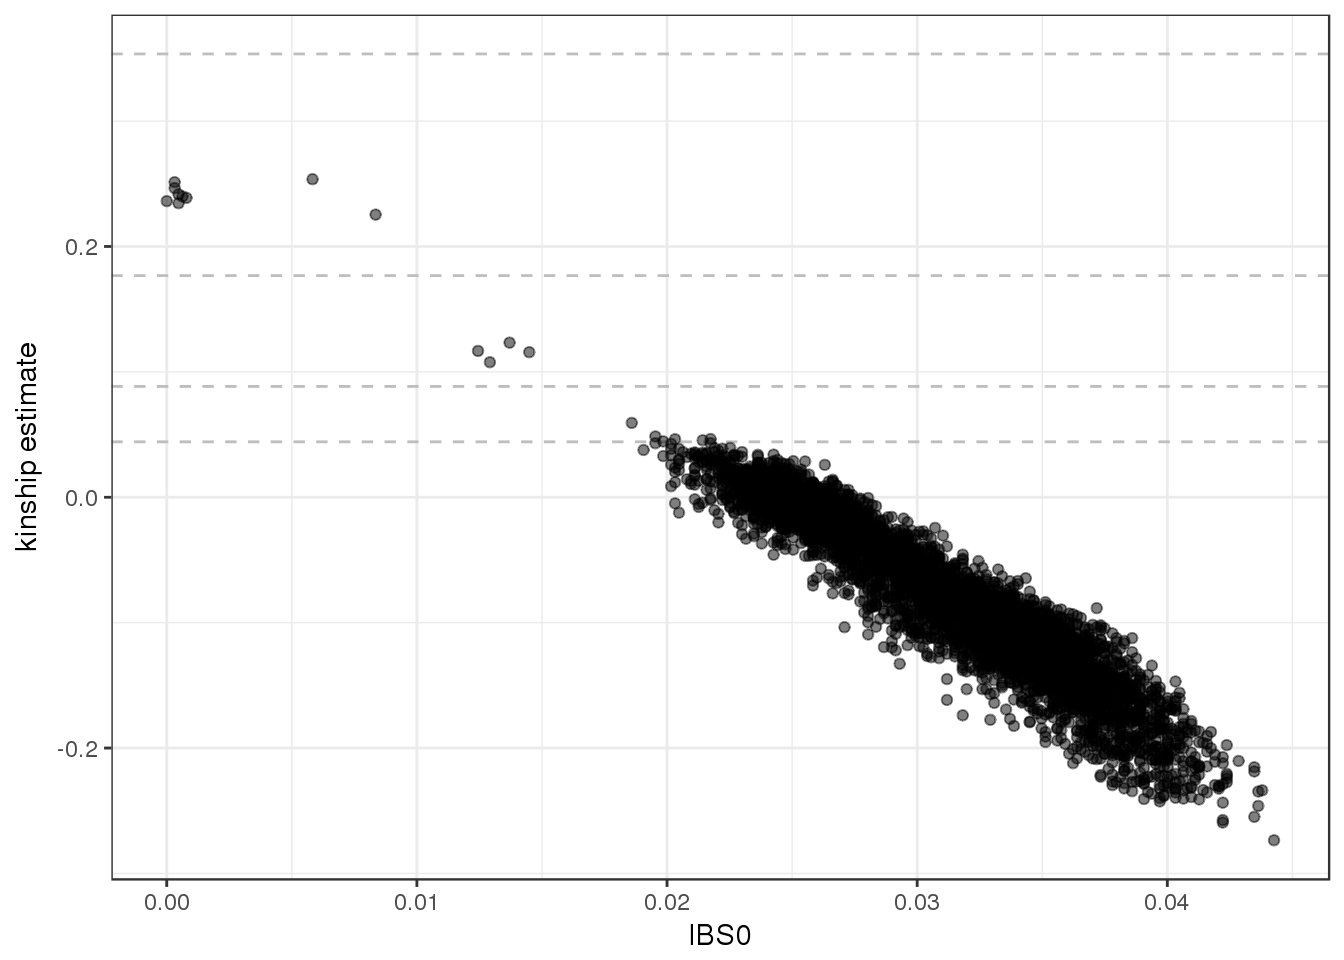
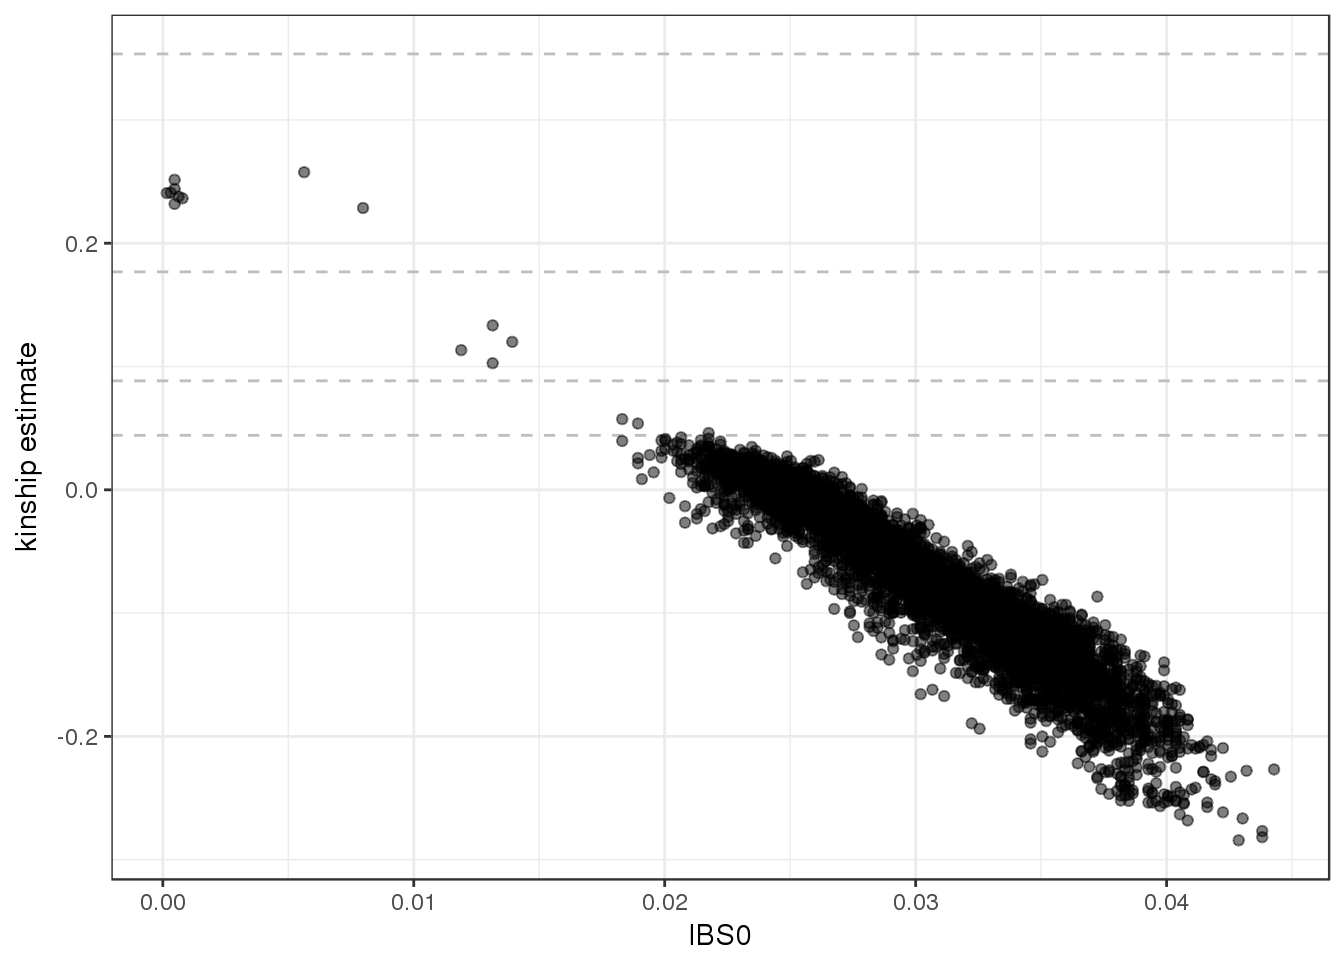
set a seed for LD pruning to avoid changes to figures

diff --git a/docs/pc-relate.html b/docs/pc-relate.html
@@ -212,34 +212,34 @@ snpset &lt;-<span class="st"> </span><span class="kw">snpgdsLDpruning</span>(gds
 ##     sliding window: 10,000,000 basepairs, Inf SNPs
 ##     |LD| threshold: 0.316228
 ##     method: correlation
-## Chromosome 1: 31.16%, 349/1,120
-## Chromosome 2: 30.89%, 346/1,120
-## Chromosome 3: 31.07%, 348/1,120
+## Chromosome 1: 31.25%, 350/1,120
+## Chromosome 2: 31.61%, 354/1,120
+## Chromosome 3: 30.98%, 347/1,120
 ## Chromosome 4: 30.98%, 347/1,120
-## Chromosome 5: 29.46%, 330/1,120
-## Chromosome 6: 31.43%, 352/1,120
-## Chromosome 7: 28.12%, 315/1,120
-## Chromosome 8: 25.98%, 291/1,120
-## Chromosome 9: 27.86%, 312/1,120
-## Chromosome 10: 28.75%, 322/1,120
-## Chromosome 11: 26.79%, 300/1,120
-## Chromosome 12: 28.04%, 314/1,120
+## Chromosome 5: 29.73%, 333/1,120
+## Chromosome 6: 31.16%, 349/1,120
+## Chromosome 7: 28.39%, 318/1,120
+## Chromosome 8: 26.07%, 292/1,120
+## Chromosome 9: 28.39%, 318/1,120
+## Chromosome 10: 28.30%, 317/1,120
+## Chromosome 11: 26.88%, 301/1,120
+## Chromosome 12: 28.39%, 318/1,120
 ## Chromosome 13: 25.27%, 283/1,120
-## Chromosome 14: 24.82%, 278/1,120
-## Chromosome 15: 22.50%, 252/1,120
-## Chromosome 16: 22.50%, 252/1,120
-## Chromosome 17: 21.61%, 242/1,120
-## Chromosome 18: 23.84%, 267/1,120
-## Chromosome 19: 21.61%, 242/1,120
-## Chromosome 20: 19.91%, 223/1,120
+## Chromosome 14: 24.29%, 272/1,120
+## Chromosome 15: 22.59%, 253/1,120
+## Chromosome 16: 22.41%, 251/1,120
+## Chromosome 17: 22.32%, 250/1,120
+## Chromosome 18: 23.66%, 265/1,120
+## Chromosome 19: 21.88%, 245/1,120
+## Chromosome 20: 20.80%, 233/1,120
 ## Chromosome 21: 17.95%, 201/1,120
-## Chromosome 22: 17.59%, 197/1,120
-## 6,363 markers are selected in total.</code></pre>
+## Chromosome 22: 17.32%, 194/1,120
+## 6,391 markers are selected in total.</code></pre>
 <div class="sourceCode"><pre class="sourceCode r"><code class="sourceCode r"><span class="kw">sapply</span>(snpset, length)</code></pre></div>
 <pre><code>##  chr1  chr2  chr3  chr4  chr5  chr6  chr7  chr8  chr9 chr10 chr11 chr12 
-##   349   346   348   347   330   352   315   291   312   322   300   314 
+##   350   354   347   347   333   349   318   292   318   317   301   318 
 ## chr13 chr14 chr15 chr16 chr17 chr18 chr19 chr20 chr21 chr22 
-##   283   278   252   252   242   267   242   223   201   197</code></pre>
+##   283   272   253   251   250   265   245   233   201   194</code></pre>
 <div class="sourceCode"><pre class="sourceCode r"><code class="sourceCode r">pruned &lt;-<span class="st"> </span><span class="kw">unlist</span>(snpset, <span class="dt">use.names=</span><span class="ot">FALSE</span>)
 
 <span class="co"># KING</span>
@@ -249,16 +249,16 @@ king &lt;-<span class="st"> </span><span class="kw">snpgdsIBDKING</span>(gds, <s
 ## 
 [..................................................]  0%, ETC: ---    
 [==================================================] 100%, completed      
-## Working space: 100 samples, 6,363 SNVs
+## Working space: 100 samples, 6,391 SNVs
 ##     using 1 (CPU) core
 ## No family is specified, and all individuals are treated as singletons.
 ## Relationship inference in the presence of population stratification.
 ## CPU capabilities: Double-Precision SSE2
-## Thu Aug  3 12:00:41 2017    (internal increment: 65536)
+## Thu Aug  3 13:53:35 2017    (internal increment: 65536)
 ## 
 [..................................................]  0%, ETC: ---    
 [==================================================] 100%, completed in 0s
-## Thu Aug  3 12:00:41 2017    Done.</code></pre>
+## Thu Aug  3 13:53:35 2017    Done.</code></pre>
 <div class="sourceCode"><pre class="sourceCode r"><code class="sourceCode r"><span class="kw">names</span>(king)</code></pre></div>
 <pre><code>## [1] &quot;sample.id&quot; &quot;snp.id&quot;    &quot;afreq&quot;     &quot;IBS0&quot;      &quot;kinship&quot;</code></pre>
 <div class="sourceCode"><pre class="sourceCode r"><code class="sourceCode r"><span class="kw">dim</span>(king<span class="op">$</span>kinship)</code></pre></div>
@@ -269,12 +269,12 @@ king &lt;-<span class="st"> </span><span class="kw">snpgdsIBDKING</span>(gds, <s
 <div class="sourceCode"><pre class="sourceCode r"><code class="sourceCode r">kinship &lt;-<span class="st"> </span><span class="kw">snpgdsIBDSelection</span>(king)
 <span class="kw">head</span>(kinship)</code></pre></div>
 <pre><code>##       ID1     ID2       IBS0     kinship
-## 1 HG00110 HG00116 0.02593116 -0.01874244
-## 2 HG00110 HG00120 0.02703127 -0.02932285
-## 3 HG00110 HG00128 0.02561685 -0.01725182
-## 4 HG00110 HG00136 0.02954581 -0.04383313
-## 5 HG00110 HG00137 0.02813138 -0.04292624
-## 6 HG00110 HG00141 0.02844570 -0.04201935</code></pre>
+## 1 HG00110 HG00116 0.02534815 -0.01566265
+## 2 HG00110 HG00120 0.02722579 -0.02831325
+## 3 HG00110 HG00128 0.02472227 -0.01707317
+## 4 HG00110 HG00136 0.03004225 -0.04909639
+## 5 HG00110 HG00137 0.02675638 -0.03674699
+## 6 HG00110 HG00141 0.02925990 -0.04608434</code></pre>
 <div class="sourceCode"><pre class="sourceCode r"><code class="sourceCode r"><span class="kw">library</span>(ggplot2)
 <span class="kw">ggplot</span>(kinship, <span class="kw">aes</span>(IBS0, kinship)) <span class="op">+</span>
 <span class="st">    </span><span class="kw">geom_hline</span>(<span class="dt">yintercept=</span><span class="dv">2</span><span class="op">^</span>(<span class="op">-</span><span class="kw">seq</span>(<span class="dv">3</span>,<span class="dv">9</span>,<span class="dv">2</span>)<span class="op">/</span><span class="dv">2</span>), <span class="dt">linetype=</span><span class="st">&quot;dashed&quot;</span>, <span class="dt">color=</span><span class="st">&quot;grey&quot;</span>) <span class="op">+</span>
@@ -304,36 +304,36 @@ pca.unrel &lt;-<span class="st"> </span><span class="kw">snpgdsPCA</span>(gds, <
 [..................................................]  0%, ETC: ---    
 [==================================================] 100%, completed      
 ## Excluding 222 SNVs (monomorphic: TRUE, MAF: NaN, missing rate: NaN)
-## Working space: 86 samples, 6,141 SNVs
+## Working space: 86 samples, 6,169 SNVs
 ##     using 1 (CPU) core
 ## CPU capabilities: Double-Precision SSE2
-## Thu Aug  3 12:00:44 2017    (internal increment: 8952)
+## Thu Aug  3 13:53:37 2017    (internal increment: 8952)
 ## 
 [..................................................]  0%, ETC: ---    
-[==================================================] 100%, completed in 0s
-## Thu Aug  3 12:00:44 2017    Begin (eigenvalues and eigenvectors)
-## Thu Aug  3 12:00:44 2017    Done.</code></pre>
+[==================================================] 100%, completed in 1s
+## Thu Aug  3 13:53:38 2017    Begin (eigenvalues and eigenvectors)
+## Thu Aug  3 13:53:38 2017    Done.</code></pre>
 <div class="sourceCode"><pre class="sourceCode r"><code class="sourceCode r"><span class="co"># project values for relatives</span>
 snp.load &lt;-<span class="st"> </span><span class="kw">snpgdsPCASNPLoading</span>(pca.unrel, <span class="dt">gdsobj=</span>gds)</code></pre></div>
 <pre><code>## SNP loading:
-## Working space: 86 samples, 6141 SNPs
+## Working space: 86 samples, 6169 SNPs
 ##     using 1 (CPU) core
 ##     using the top 32 eigenvectors
-## Thu Aug  3 12:00:44 2017    (internal increment: 65536)
+## Thu Aug  3 13:53:38 2017    (internal increment: 65536)
 ## 
 [..................................................]  0%, ETC: ---    
 [==================================================] 100%, completed in 0s
-## Thu Aug  3 12:00:44 2017    Done.</code></pre>
+## Thu Aug  3 13:53:38 2017    Done.</code></pre>
 <div class="sourceCode"><pre class="sourceCode r"><code class="sourceCode r">samp.load &lt;-<span class="st"> </span><span class="kw">snpgdsPCASampLoading</span>(snp.load, <span class="dt">gdsobj=</span>gds, <span class="dt">sample.id=</span>sampset<span class="op">$</span>rels)</code></pre></div>
 <pre><code>## Sample loading:
-## Working space: 14 samples, 6141 SNPs
+## Working space: 14 samples, 6169 SNPs
 ##     using 1 (CPU) core
 ##     using the top 32 eigenvectors
-## Thu Aug  3 12:00:44 2017    (internal increment: 65536)
+## Thu Aug  3 13:53:38 2017    (internal increment: 65536)
 ## 
 [..................................................]  0%, ETC: ---    
 [==================================================] 100%, completed in 0s
-## Thu Aug  3 12:00:44 2017    Done.</code></pre>
+## Thu Aug  3 13:53:38 2017    Done.</code></pre>
 <div class="sourceCode"><pre class="sourceCode r"><code class="sourceCode r"><span class="co"># combine unrelated and related PCs and order as in GDS file</span>
 pcs &lt;-<span class="st"> </span><span class="kw">rbind</span>(pca.unrel<span class="op">$</span>eigenvect, samp.load<span class="op">$</span>eigenvect)
 <span class="kw">rownames</span>(pcs) &lt;-<span class="st"> </span><span class="kw">c</span>(pca.unrel<span class="op">$</span>sample.id, samp.load<span class="op">$</span>sample.id)

diff --git a/docs/computing-a-grm.html b/docs/computing-a-grm.html
@@ -197,11 +197,11 @@ grm &lt;-<span class="st"> </span><span class="kw">snpgdsGRM</span>(gds, <span c
 ## Working space: 1,126 samples, 1,107 SNVs
 ##     using 1 (CPU) core
 ## CPU capabilities: Double-Precision SSE2
-## Thu Aug  3 12:00:37 2017    (internal increment: 680)
+## Thu Aug  3 13:53:31 2017    (internal increment: 680)
 ## 
 [..................................................]  0%, ETC: ---    
-[==================================================] 100%, completed in 1s
-## Thu Aug  3 12:00:38 2017    Done.</code></pre>
+[==================================================] 100%, completed in 0s
+## Thu Aug  3 13:53:32 2017    Done.</code></pre>
 <div class="sourceCode"><pre class="sourceCode r"><code class="sourceCode r"><span class="kw">names</span>(grm)</code></pre></div>
 <pre><code>## [1] &quot;sample.id&quot; &quot;snp.id&quot;    &quot;grm&quot;</code></pre>
 <div class="sourceCode"><pre class="sourceCode r"><code class="sourceCode r"><span class="kw">dim</span>(grm<span class="op">$</span>grm)</code></pre></div>
